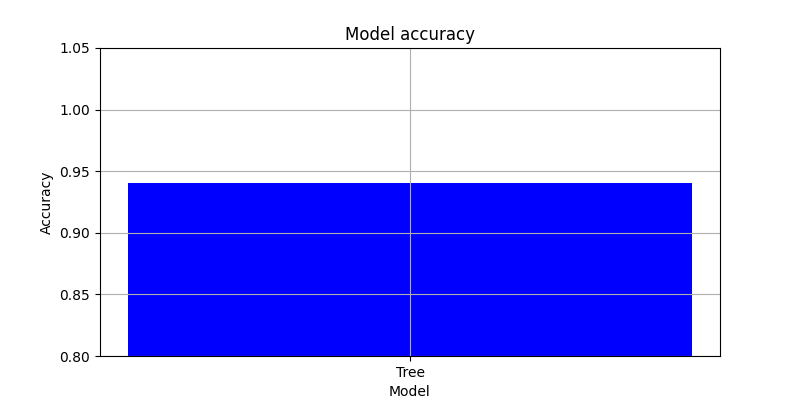
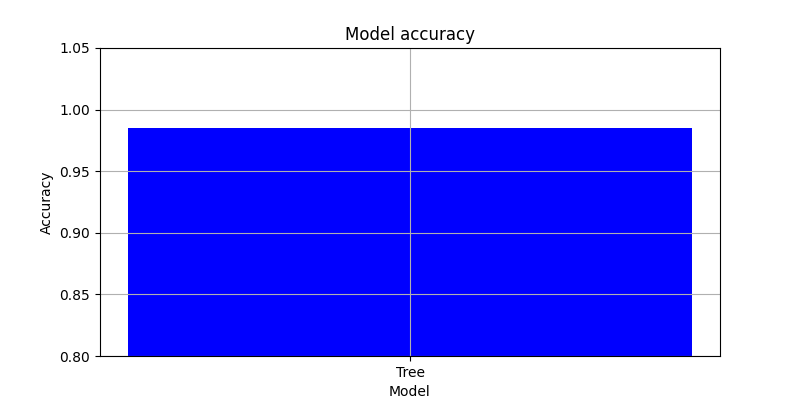
feat(project): modularization finished
The modularization was finished
and now the code to treate the
data, training the model, create
a plot of accuracy and test.

Changed region(s): [[0.1562, 0.3, 0.875, 0.48]]

diff --git a/models/ag2_models_training.py b/models/ag2_models_training.py
@@ -1,0 +1,98 @@
+from sklearn.model_selection import train_test_split
+from sklearn.metrics import accuracy_score, classification_report
+from sklearn.tree import DecisionTreeClassifier
+import json
+import pandas as pd
+
+class Training:
+    def __init__(self, data) -> None:
+        self.data = data  # dataset tratado
+        self.X = None
+        self.y = None
+        self.X_train = None
+        self.X_test = None
+        self.y_train = None
+        self.y_test = None
+        self.model = None  # Inicialize o modelo aqui
+        # Definindo os mapeamentos para a classificação
+        self.island_mapping = {"Biscoe": 0, "Dream": 1, "Torgersen": 2}
+        self.sex_mapping = {"F": 0, "M": 1}
+        self.specie_mapping = {0: "Adelie", 1: "Chinstrap", 2: "Gentoo"}
+
+    def split_data(self):
+        # Realizando a separação dos dados de treinamento e teste
+        self.X = self.data.drop(columns=["species"])  # features
+        self.y = self.data["species"]  # target
+        self.X_train, self.X_test, self.y_train, self.y_test = train_test_split(
+            self.X, self.y, test_size=0.2, random_state=0
+        )
+        print(f"Tamanho X de treino: {self.X_train.shape}")
+        print(f"Tamanho X de teste: {self.X_test.shape}")
+        print(f"Tamanho y de treino: {self.y_train.shape}")
+        print(f"Tamanho y de teste: {self.y_test.shape}")
+
+    def trainning_model(self):
+        self.split_data()
+
+        # instanciando o modelo
+        self.model = DecisionTreeClassifier()
+
+        # treinando o modelo
+        self.model.fit(self.X_train, self.y_train)
+
+        # Realizando a predição
+        tree_pred = self.model.predict(self.X_test)
+
+        # Avaliando o modelo
+        tree_ava = classification_report(self.y_test, tree_pred)
+        print(tree_ava)
+
+        # avaliação por acurácia
+        tree_score = accuracy_score(self.y_test, tree_pred)
+
+        print(f"Pontuação de treinamento do modelo: {tree_score}")
+
+        return tree_score
+    
+    # Função de teste para carregar JSON e realizar a predição
+    def test_predict_from_json(self, json_path):
+        # Carregar o JSON
+        with open(json_path, 'r') as file:
+            data = json.load(file)
+
+        # Extrair as informações do JSON
+        island = data.get("Ilha")
+        sex = data.get("Sexo")
+        culmen_length_mm = data.get("Comprimento do culmen (mm)")
+        culmen_depth_mm = data.get("Profundidade do culmen (mm)")
+        flipper_length_mm = data.get("Comprimento da nadadeira (mm)")
+        body_mass_g = data.get("Massa corporal (g)")
+
+        # Mapear os valores categóricos
+        island = self.island_mapping.get(island, None)
+        sex = self.sex_mapping.get(sex, None)
+
+        # Verificar se os valores mapeados são válidos
+        if island is None:
+            print("Ilha não reconhecida!")
+            return
+        if sex is None:
+            print("Sexo não reconhecido!")
+            return
+
+        # Preparar os dados para o modelo
+        dados = pd.DataFrame([{
+            'island': island,
+            'sex': sex,
+            'culmen_length_mm': culmen_length_mm,
+            'culmen_depth_mm': culmen_depth_mm,
+            'flipper_length_mm': flipper_length_mm,
+            'body_mass_g': body_mass_g
+        }])
+
+        # Fazer a predição usando o modelo
+        output = self.model.predict(dados)
+        output_specie = self.specie_mapping.get(output[0], None)
+
+        # Exibir o resultado da classificação
+        print(f"Resultado da classificação: {output_specie}")

diff --git a/utils/ag2_utils.py b/utils/ag2_utils.py
@@ -1,4 +1,8 @@
 import pandas as pd
+import matplotlib.pyplot as plt
+
+# Definir opção global para o comportamento futuro sem warnings
+pd.set_option('future.no_silent_downcasting', True)
 
 class Utils:
     def __init__(self, dataset):
@@ -15,21 +19,37 @@ class Utils:
             "Biscoe": 0,
             "Dream": 1,
             "Torgersen": 2
-        })
+        }).infer_objects(copy=False)
 
         self.data['sex'] = self.data['sex'].replace({
             "FEMALE": 0,
             "MALE": 1
-        })
+        }).infer_objects(copy=False)
 
-        self.data['species'] =self.data['species'].replace({
+        self.data['species'] = self.data['species'].replace({
             "Adelie": 0,
             "Chinstrap": 1,
             "Gentoo": 2
-        })
+        }).infer_objects(copy=False)
 
         # Reorganizando as colunas do dataset
         new_col_order = ['island', 'sex', 'culmen_length_mm', 'culmen_depth_mm', 'flipper_length_mm', 'body_mass_g', 'species']
         self.data = self.data.reindex(columns=new_col_order)
 
-        # print(self.data.head(5))
+        print("Dataset Formatado")
+        print(self.data.head(5))
+
+        return self.data
+    
+    def plot_graphic(self, model_score):
+        # gráfico da acurácia
+        plt.figure(figsize = (8,4))
+        plt.title("Model accuracy")
+        plt.bar(x = [0], height = [model_score], color = "blue")
+        plt.xticks([0], ["Tree"])
+        plt.ylim(0.8,1.05)
+        plt.ylabel("Accuracy")
+        plt.xlabel("Model")
+        plt.grid()
+        plt.savefig("grafics/accuracy.png")
+        plt.show()

diff --git a/main2.py b/main2.py
@@ -1,5 +1,15 @@
 from utils.ag2_utils import Utils
+from models.ag2_models_training import Training
 
-utils = Utils('data\palmerpenguins.csv')
+utils = Utils("data\palmerpenguins.csv")
 utils.red_dataset()
-utils.data_treatment()
+data = utils.data_treatment()
+
+training = Training(data)
+
+training_model_score = training.trainning_model()
+
+utils.plot_graphic(training_model_score)
+
+json_data = "Json/test.json"
+training.test_predict_from_json(json_data)
